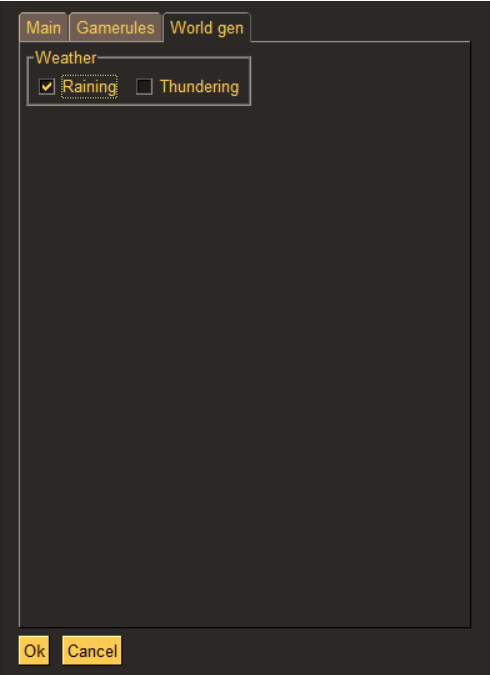
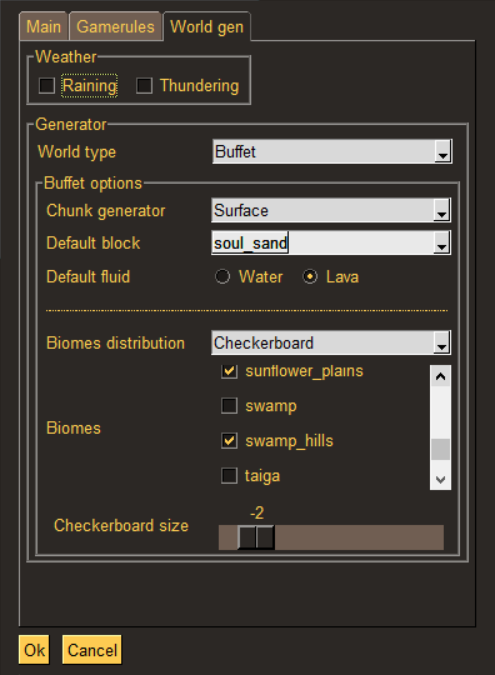
Release v0.3

Changed region(s): [[0.0306, 0.0, 0.949, 0.84], [0.4286, 0.5911, 0.6735, 0.7156], [0.0306, 0.9333, 0.2449, 0.9956]]

diff --git a/README.md b/README.md
@@ -1,7 +1,8 @@
 # Fast World Creator 
-![GitHub release (latest by date)](https://img.shields.io/github/v/release/pizzaspren/FastWorldCreator)
-![GitHub last commit](https://img.shields.io/github/last-commit/pizzaspren/FastWorldCreator)
-![GitHub issues](https://img.shields.io/github/issues-raw/pizzaspren/FastWorldCreator?label=issues)
+![License](https://img.shields.io/github/license/pizzaspren/FastWorldCreator)
+![Latest release](https://img.shields.io/github/v/release/pizzaspren/FastWorldCreator)
+![Last commit](https://img.shields.io/github/last-commit/pizzaspren/FastWorldCreator)
+![Issues](https://img.shields.io/github/issues-raw/pizzaspren/FastWorldCreator?label=issues)
 ![CodeFactor](https://www.codefactor.io/repository/github/pizzaspren/fastworldcreator/badge)
 [![Discord Shield](https://discordapp.com/api/guilds/693213117177659454/widget.png?style=shield)](https://discord.gg/MkhUUbY)
 
@@ -21,16 +22,18 @@ Look no further, this application is just what you need!
 
 ### Features
 * Automatically detect installed Minecraft releases.
-* Highly customizable world generation (soon).
+* Highly customizable world generation.
 * Bundled with an optional loot randomizing datapack that works for ANY version.
 * Drop your own datapacks in the `assets/imported_datapacks` folder and they will become instantly available to all the new worlds you want to create.
 * Select which datapacks you want to add to your world with a simple click.
 * ...And much more!
 
-*Functionality verified with 1.14.4 and 1.15.2, but should support full releases (not snapshots (yet)) from 1.13 onwards.*
+*Functionality verified with 1.14.4 and 1.15.2, but should support full releases (not snapshots) from 1.13 onwards.*
 
 ### Requirements
-This is what you will need in order to launch the application via code. You can find the executable versions in the [releases](https://github.com/pizzaspren/FastWorldCreator/releases) page
+Check out the [releases](https://github.com/pizzaspren/FastWorldCreator/releases) page for the executable versions.
+
+If you want to run the application via code, this is what you will need:
 * Python 3.7+
     * [PySimpleGUI](https://pypi.org/project/PySimpleGUI/) 4.19.0+
     * [nbtlib](https://pypi.org/project/nbtlib/) 1.6.5+
